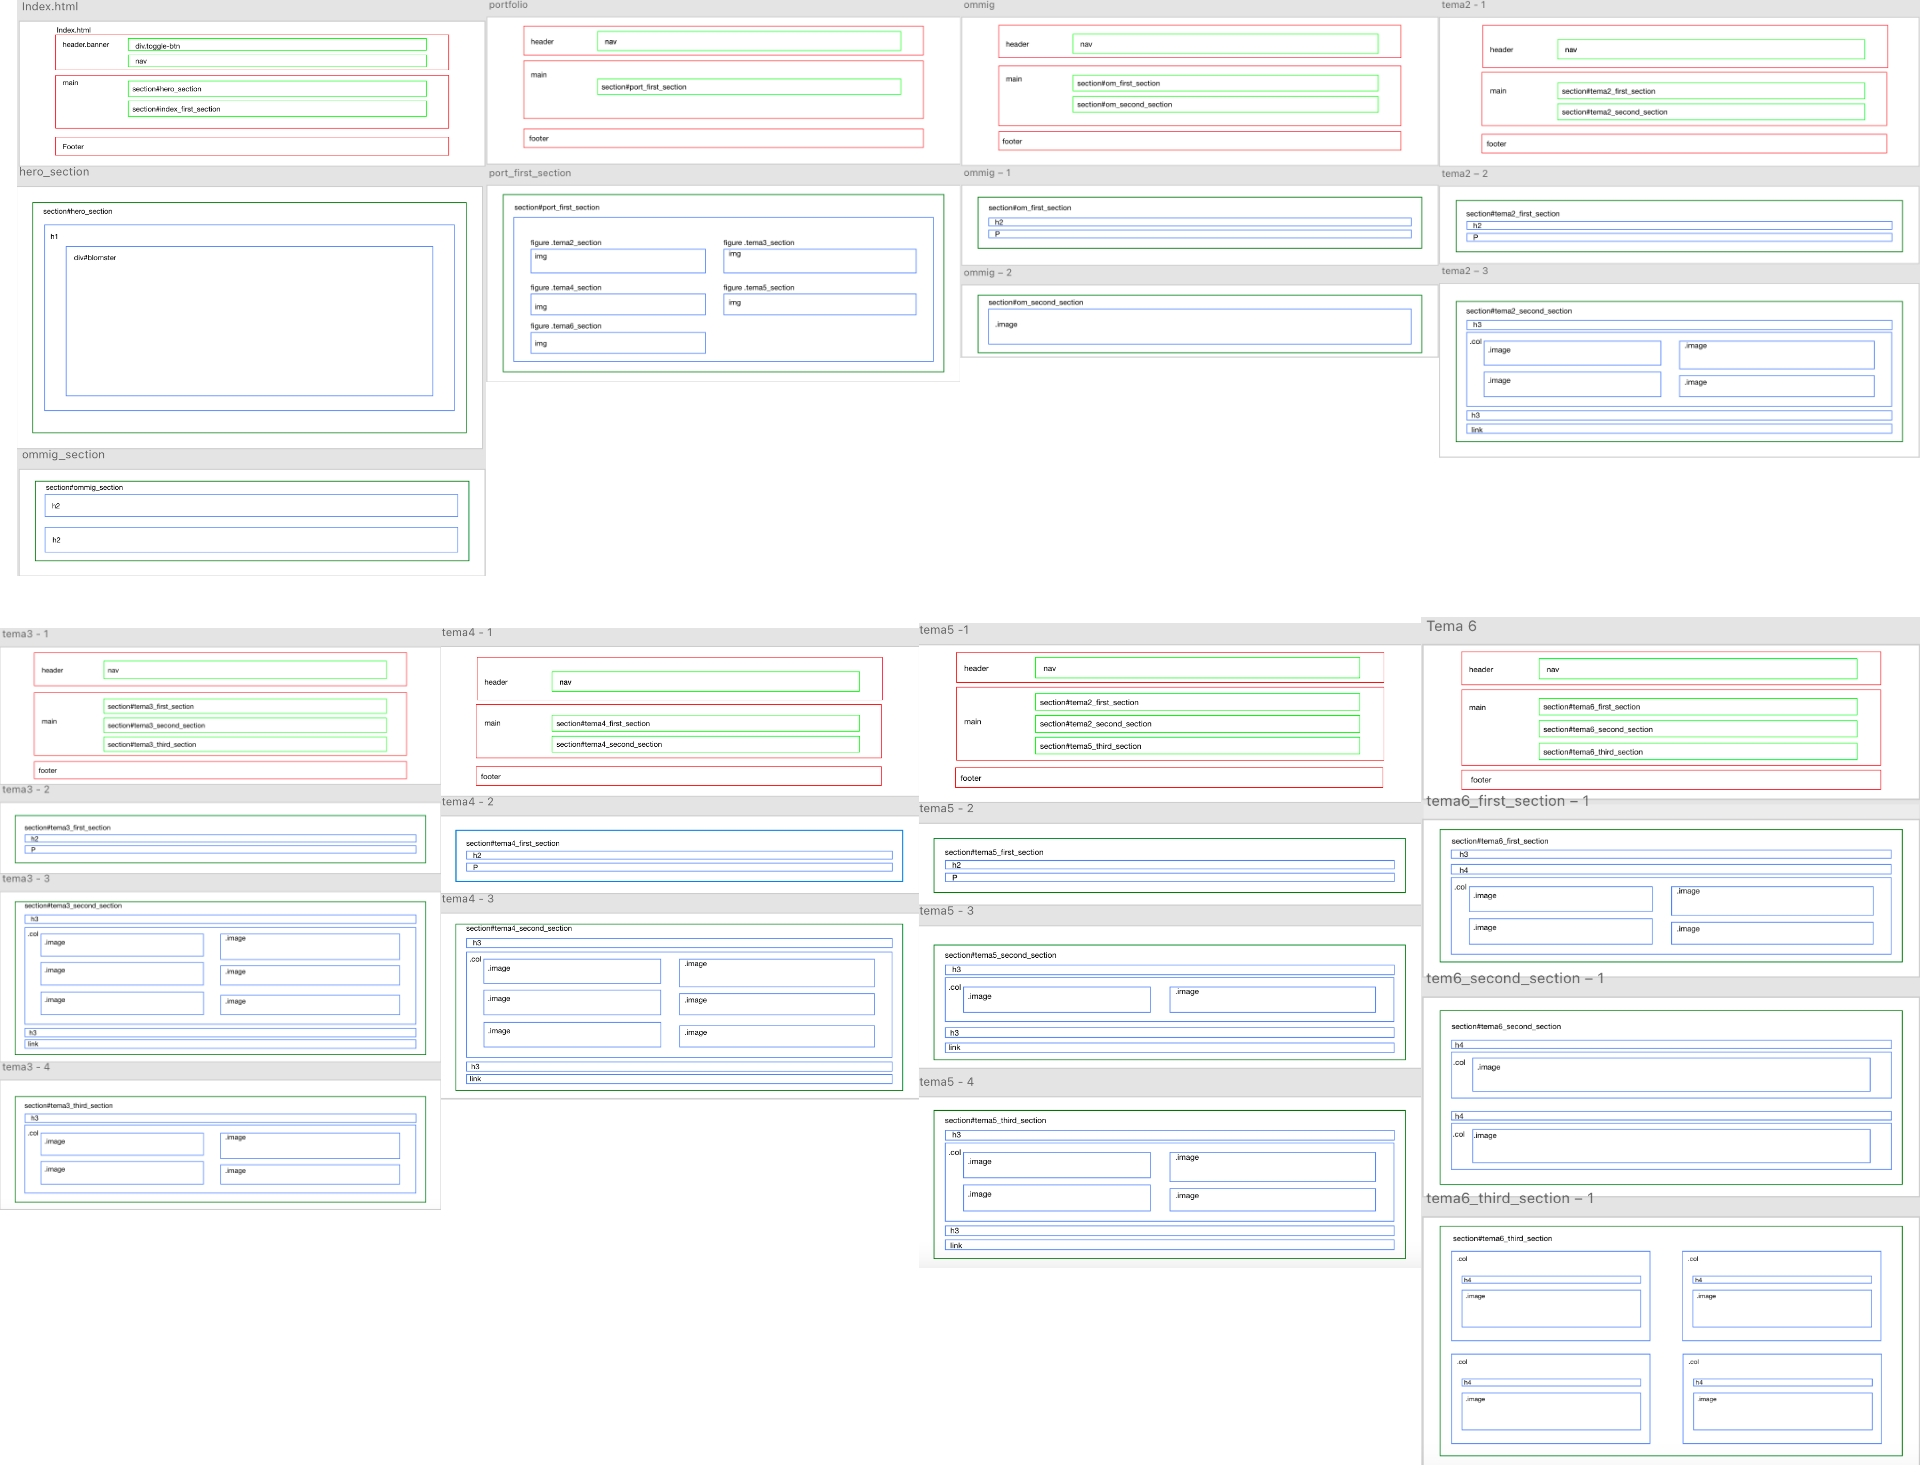
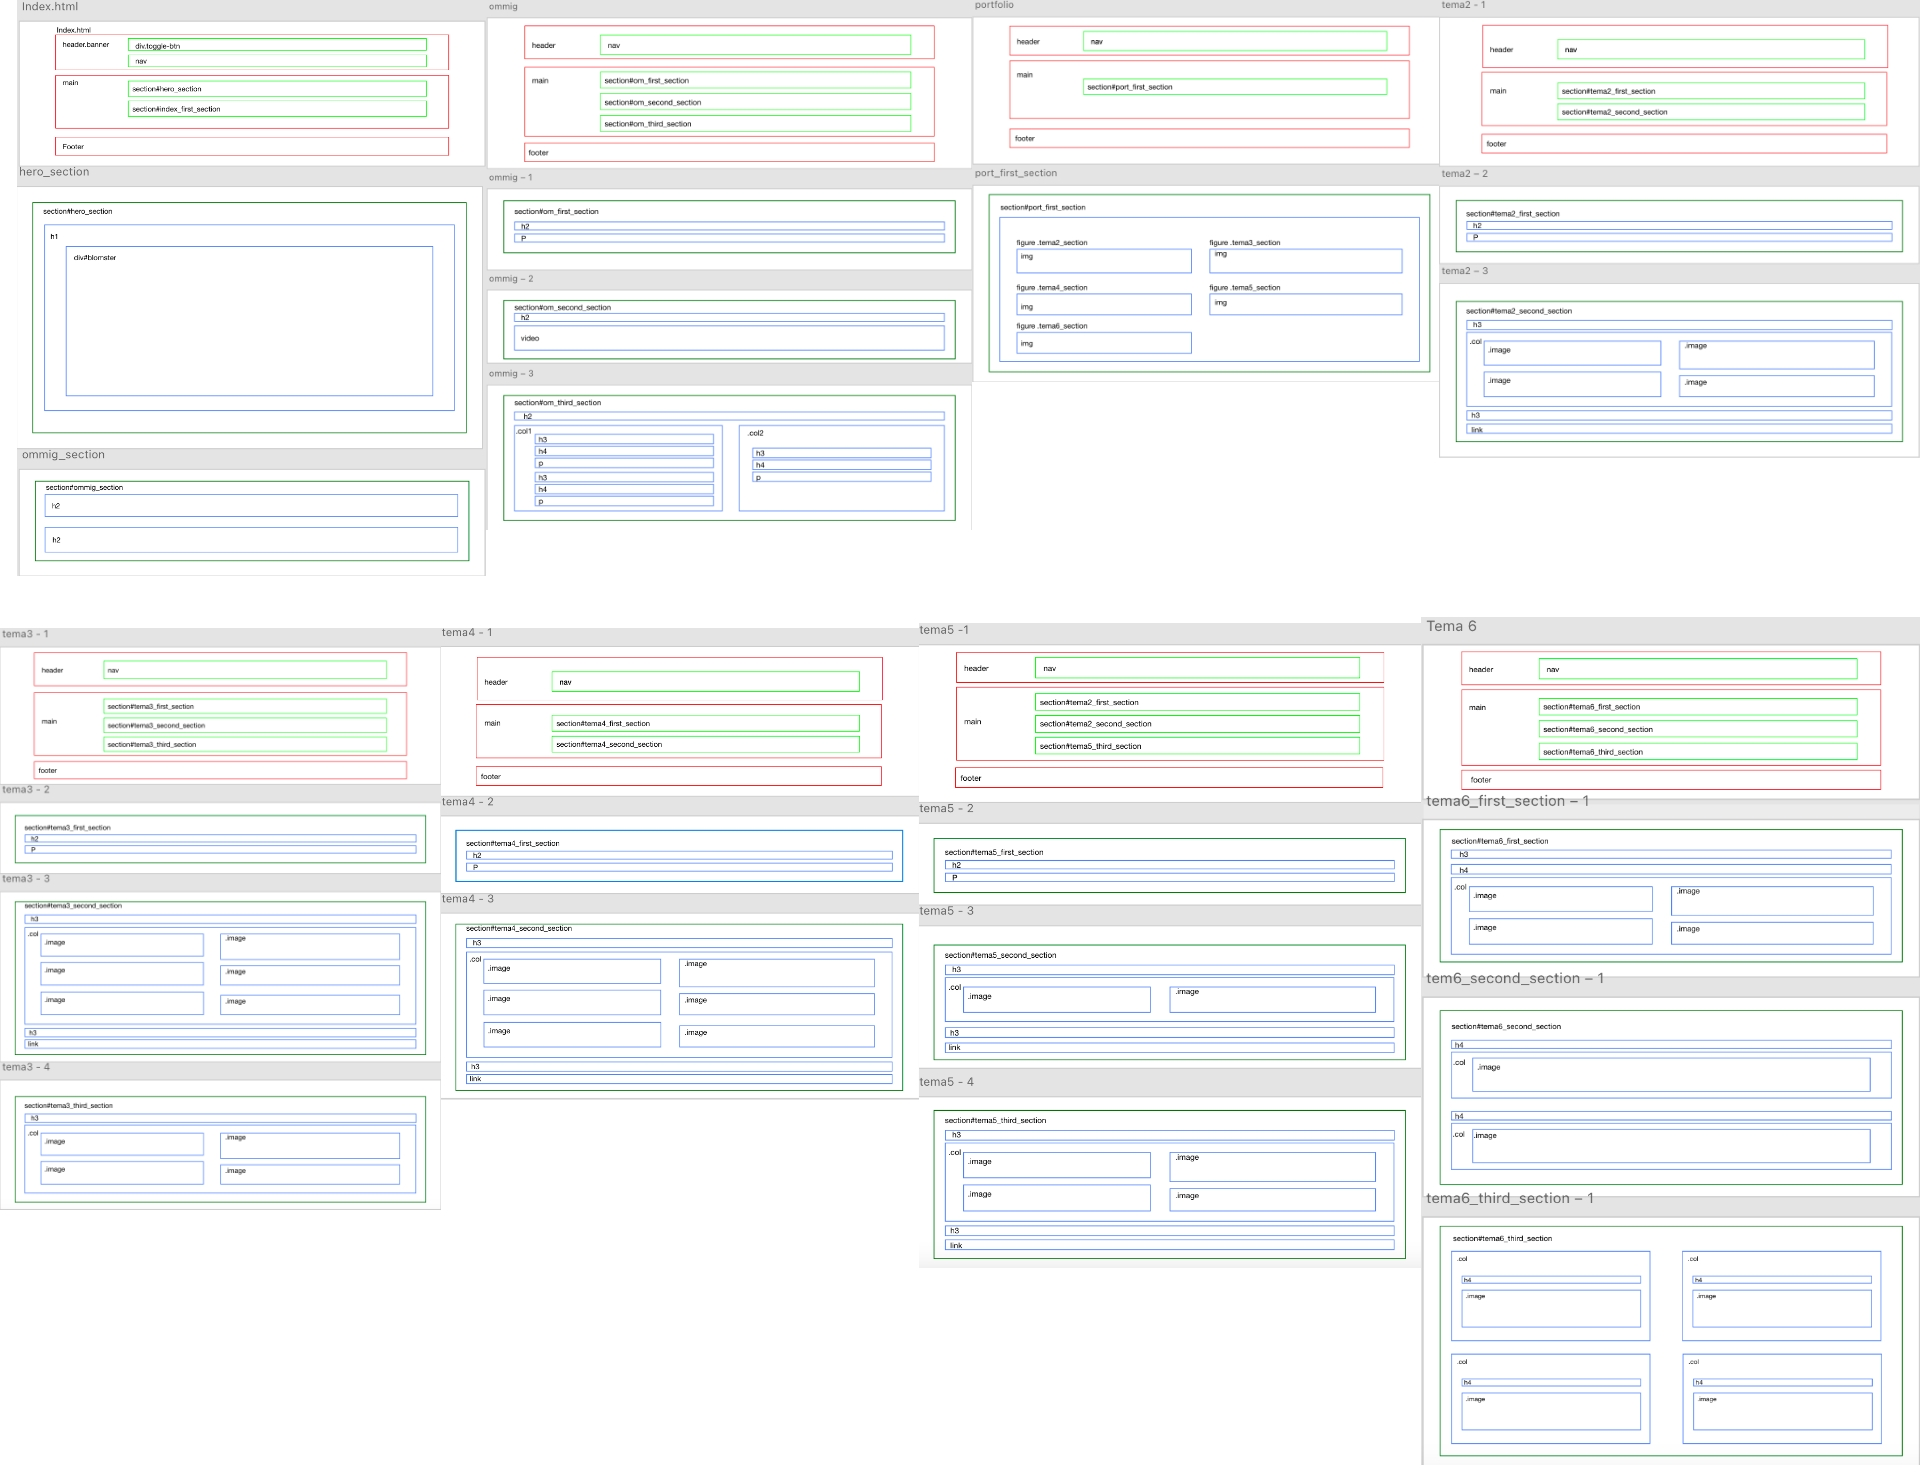
ommig med cv og tema5 med 2 ekstra billeder

Changed region(s): [[0.25, 0.0, 0.75, 0.3433]]

diff --git a/tema5.html b/tema5.html
@@ -82,21 +82,25 @@
 
       <section id="tema5_third_section">
         <h3>05.02.01 Redesign og temadokumentation</h3>
-        Vi fandt firmaet/cocktail baren Zefside efter en del besvær som gerne
-        ville lade os redesigne deres hjemmeside. Vi lavede storyboard, uddelte
-        opgaver og lavede interviewguide. Desværre afslyste Zefside på dagen vi
-        havde aftale med dem og vi hørte aldrig fra dem igen. Derfor måtte vi
-        improvisere og forsøge at ramme et redesign der havde været noget for
-        dem. <br />
-        Da Zefside allerede var vores plan b, så ville jeg til en anden gang
-        møde op det sted jeg forsøger at lave en aftale med, i stedet for at
-        maile, og samtidig sørge for at firmaet havde mere end en
-        onepage-hjemmeside.
+        <p>
+          Vi fandt firmaet/cocktail baren Zefside efter en del besvær som gerne
+          ville lade os redesigne deres hjemmeside. Vi lavede storyboard,
+          uddelte opgaver og lavede interviewguide. Desværre afslyste Zefside på
+          dagen vi havde aftale med dem og vi hørte aldrig fra dem igen. Derfor
+          måtte vi improvisere og forsøge at ramme et redesign der havde været
+          noget for dem. <br />
+          Da Zefside allerede var vores plan b, så ville jeg til en anden gang
+          møde op det sted jeg forsøger at lave en aftale med, i stedet for at
+          maile, og samtidig sørge for at firmaet havde mere end en
+          onepage-hjemmeside.
+        </p>
         <figure class="col">
           <img src="/tema/1.2tema5.webp" alt="Forside" />
           <img src="/tema/2.2tema5.webp" alt="Min side" />
           <img src="/tema/3.2tema5.webp" alt="Styletile" />
+          <img src="/billeder/storyboards.webp" alt="Storyboard" />
           <img src="/tema/4.2tema5.webp" alt="Screenshot afvideo" />
+          <img src="/billeder/test.jpg" alt="Tests" />
         </figure>
         <h4>Se opgaven her:</h4>
         <p class="link">

diff --git a/ommig.html b/ommig.html
@@ -57,6 +57,29 @@
           src="http://albertestaermose.dk/kea/eksamen/video/inspo.mp4"
         ></video>
       </section>
+      <section id="om_third_section">
+        <h2>Mit CV</h2>
+        <article>
+          <div class="col1">
+            <h3>Uddannelse</h3>
+            <h4>Studentereksamen</h4>
+            <p>Campus Bornholm // 2016-2019</p>
+            <br />
+            <h3>Arbejde</h3>
+            <h4>Receptionist</h4>
+            <p>Metz // november 2019 - april 2020</p>
+            <h4>Kundeservice og Second Line</h4>
+            <p>Elgigantens kundesupport // maj 2020 - april 2021</p>
+          </div>
+          <div class="col2">
+            <h3>Kompetencer</h3>
+            <h4>Programemering</h4>
+            <p>HTML // CSS // JavaScript</p>
+            <h4>Adobe Programmer</h4>
+            <p>Photoshop // Illustrator // XD // Premiere Pro // Audition</p>
+          </div>
+        </article>
+      </section>
     </main>
     <footer>
       <p>

diff --git a/style.css b/style.css
@@ -479,10 +479,24 @@ footer p {
 #om_first_section img {
   clip-path: circle(40% at 50% 50%);
 }
+
 #om_second_section video {
   width: 100%;
   height: auto;
   display: block;
+}
+
+#om_third_section article {
+  background-color: rgb(255, 181, 0);
+  padding: 1rem;
+  display: grid;
+  grid-template-columns: repeat(auto-fit, minmax(320px, 1fr));
+  gap: 1rem;
+}
+#om_third_section h4,
+h3 {
+  padding: 0;
+  margin: 0;
 }
 /*
 
@@ -585,16 +599,10 @@ footer p {
   object-fit: cover;
 }
 /*Anden section*/
-/* #tema6_second_section .col {
-  display: grid;
-  grid-template-columns: repeat(auto-fit, minmax(320px, 1fr));
-  gap: 1rem;
-}
-
 #tema6_second_section img {
   height: 100%;
   object-fit: cover;
-} */
+}
 
 /*Tredje section*/
 #tema6_third_section {
